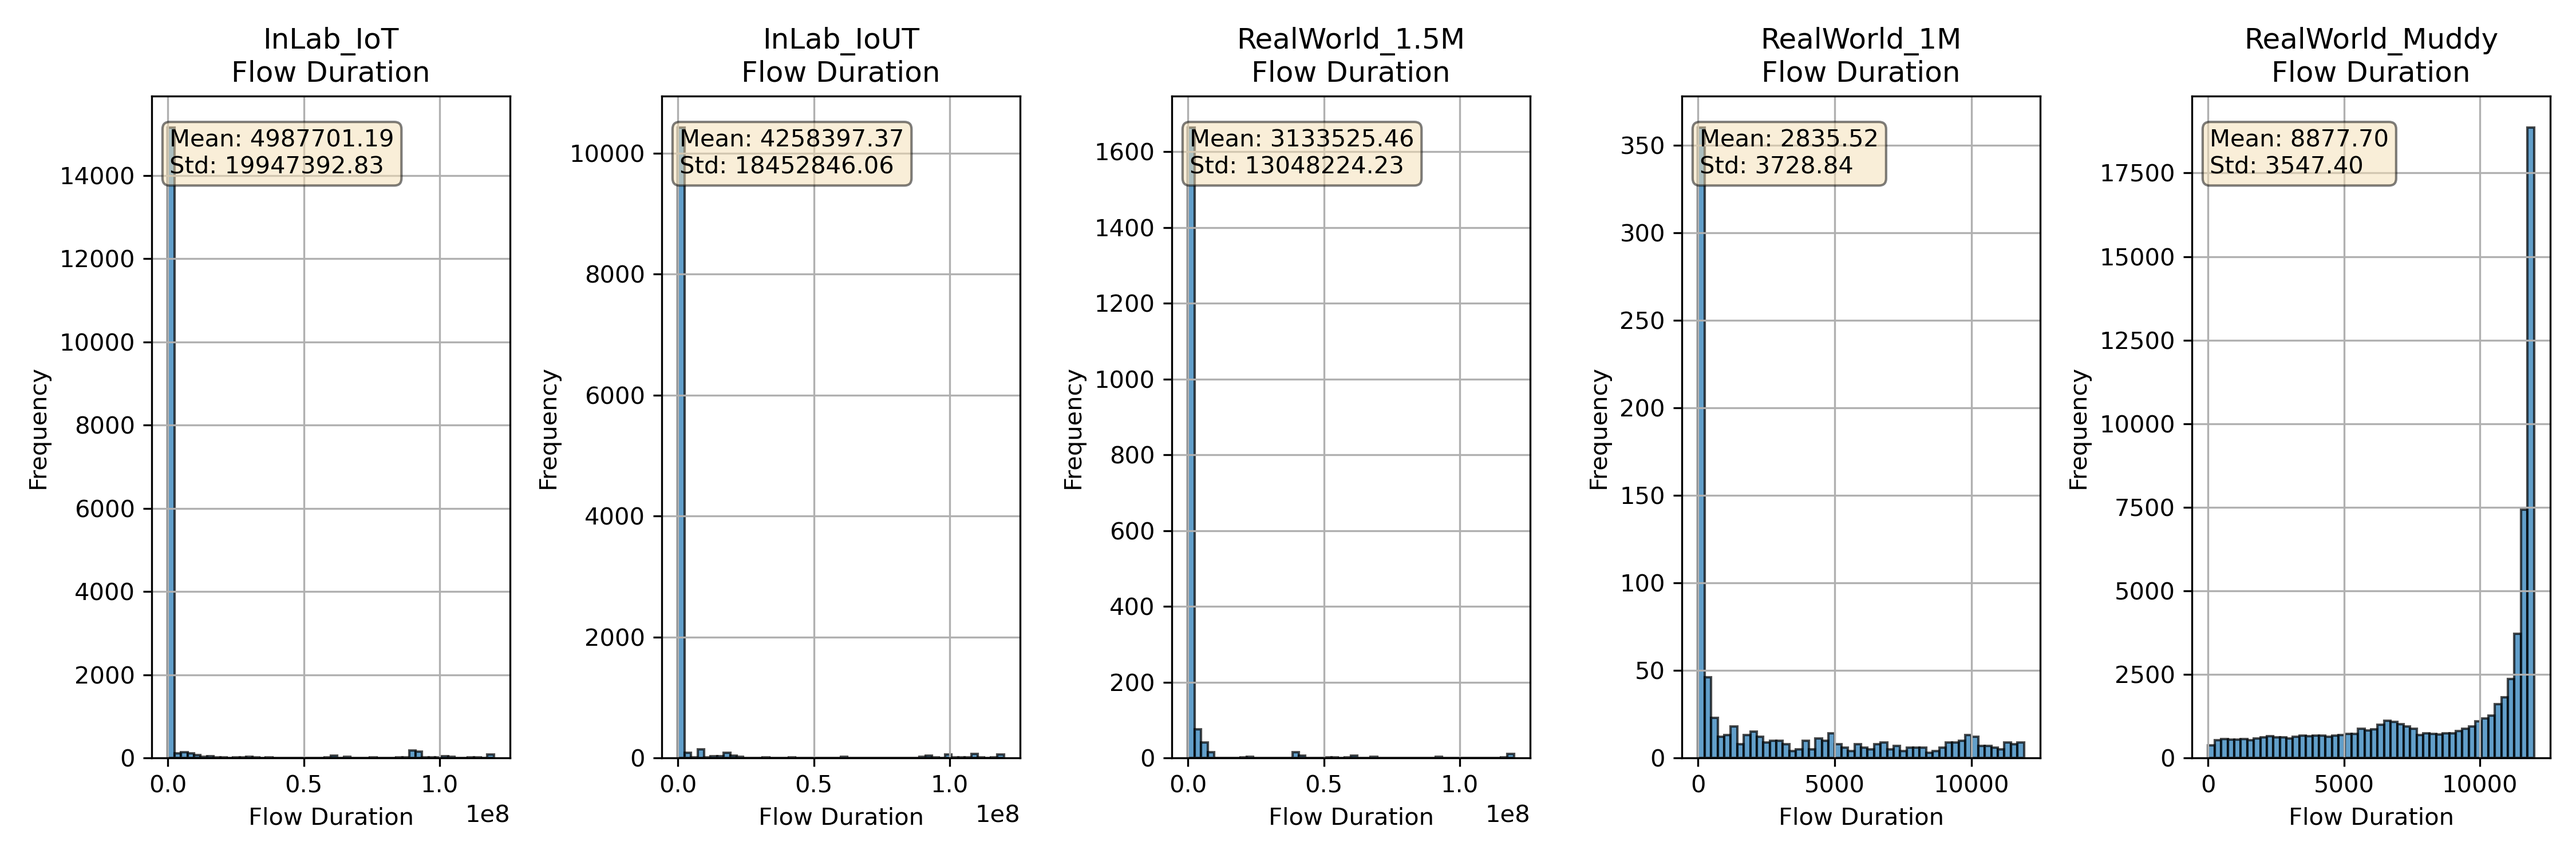
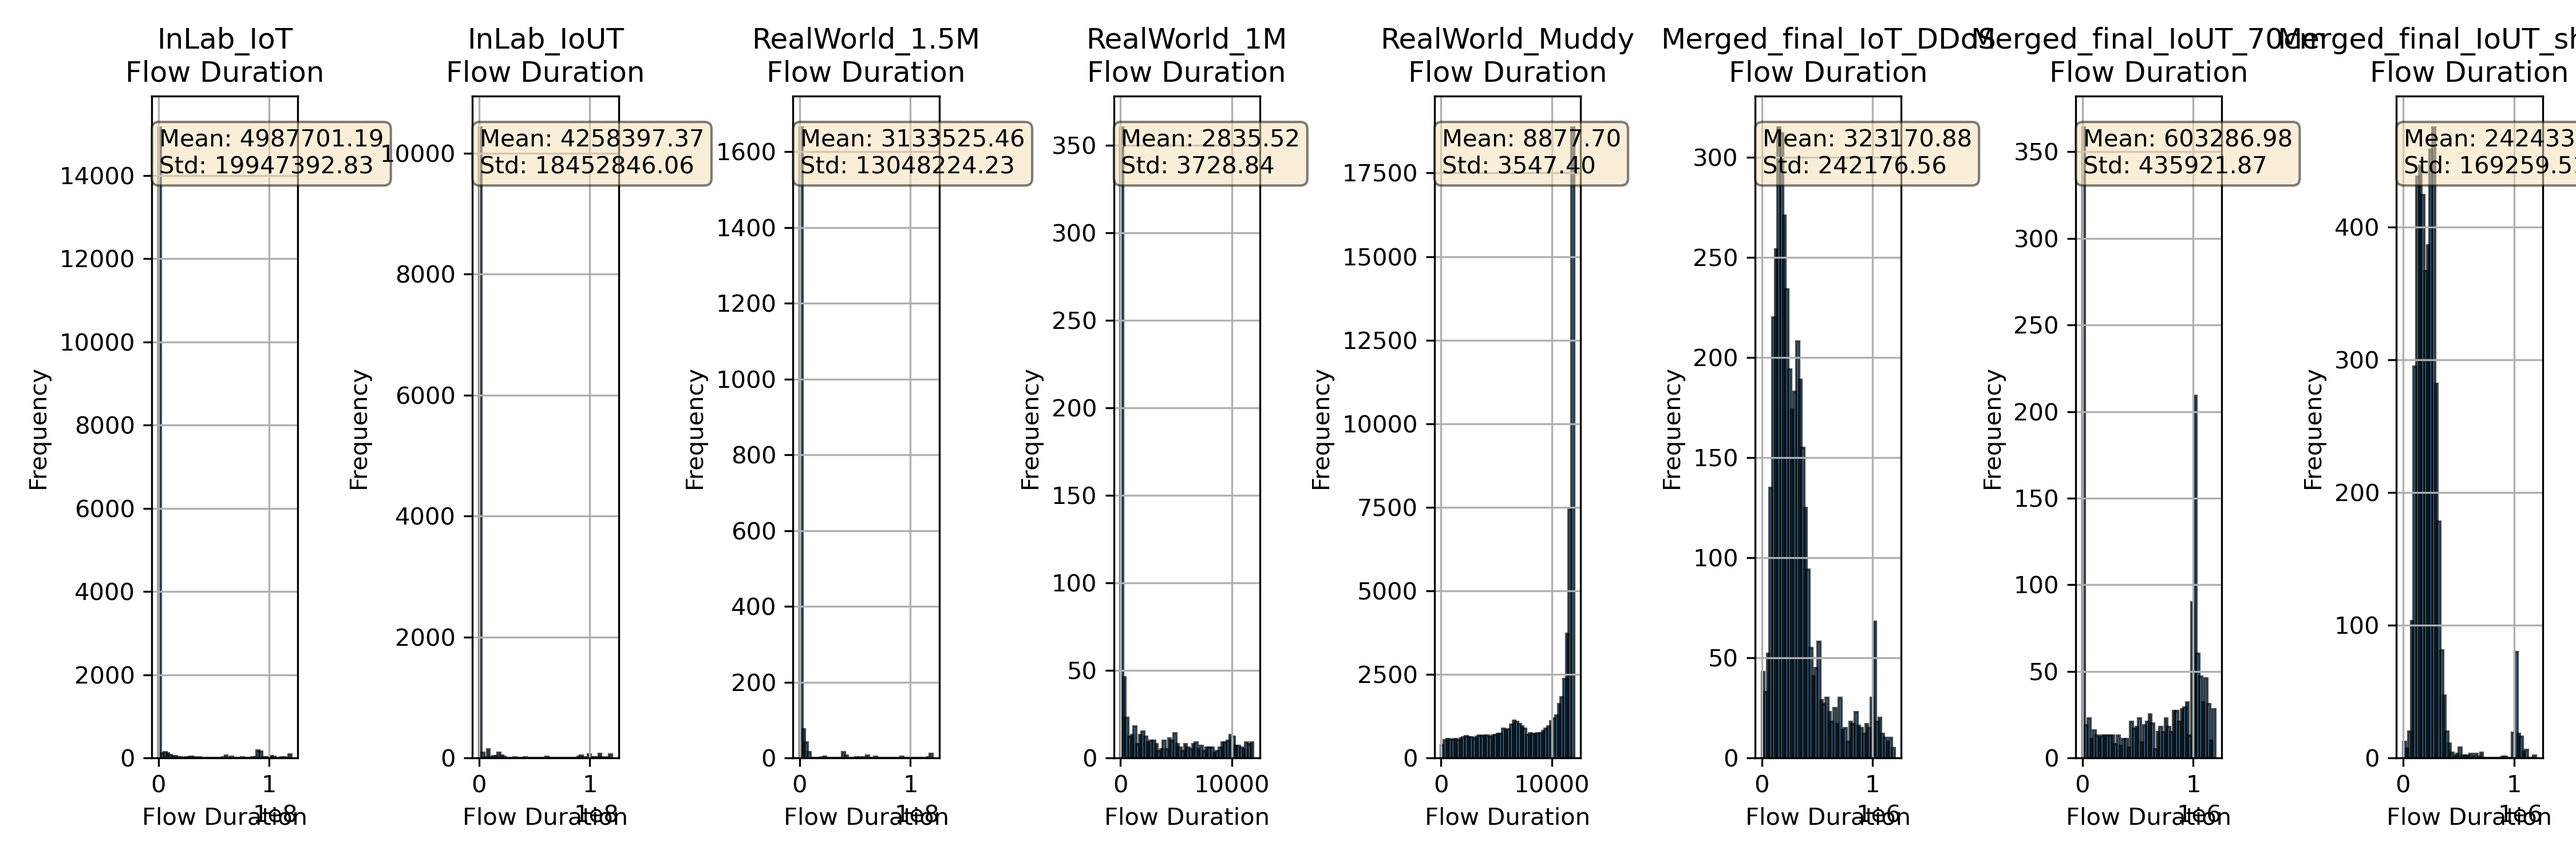
Re-generated the report

diff --git a/Validation_Framework.py b/Validation_Framework.py
@@ -679,6 +679,22 @@ if __name__ == "__main__":
     real_muddy_iout_report, real_muddy_iout_score = validator_iout.run_full_validation()
     
     print("\n" + "="*50 + "\n")
+
+    print("Validate Merged_final_IoT DDOS Dataset")
+    validator_iout = DDoSValidationFramework('Merged_final_IoTMerged_final_IoT_DDoS', 'Data_Set/Merged_final_IoT_DDoS_Dataset.csv')
+    real_1_5_iout_report, real_1_5iout_score = validator_iout.run_full_validation()
+
+    print("\n" + "="*50 + "\n")
+    
+    print("Validate Merged_final_IoUT_70cm")
+    validator_iout = DDoSValidationFramework('Merged_final_IoUT_70cm', 'Data_Set/Merged_final_IoUT_70cm.csv')
+    real_1_iout_report, real_1_iout_score = validator_iout.run_full_validation()
+    
+    print("\n" + "="*50 + "\n")
+
+    print("Validate Merged_final_IoUT_shallow")
+    validator_iout = DDoSValidationFramework('Merged_final_IoUT_shallow', 'Data_Set/Merged_final_IoUT_shallow.csv')
+    real_muddy_iout_report, real_muddy_iout_score = validator_iout.run_full_validation()
     
     # Cross-dataset validation
     print("=== Cross-dataset Validation ===")
@@ -687,7 +703,10 @@ if __name__ == "__main__":
         'InLab_IoUT': 'Data_Set/inlab_iout_combined.csv',
         'RealWorld_1.5M': 'Data_Set/real_world_ddos_1.5m.csv',
         'RealWorld_1M': 'Data_Set/real_world_ddos_1m.csv',
-        'RealWorld_Muddy': 'Data_Set/real_world_ddos_seashore_muddy.csv'
+        'RealWorld_Muddy': 'Data_Set/real_world_ddos_seashore_muddy.csv',
+        'Merged_final_IoT_DDoS': 'Data_Set/Merged_final_IoT_DDoS_Dataset.csv',
+        'Merged_final_IoUT_70cm': 'Data_Set/Merged_final_IoUT_70cm.csv',
+        'Merged_final_IoUT_shallow': 'Data_Set/Merged_final_IoUT_shallow.csv'
     }
     
     cross_validator = CrossDatasetValidator(datasets)
